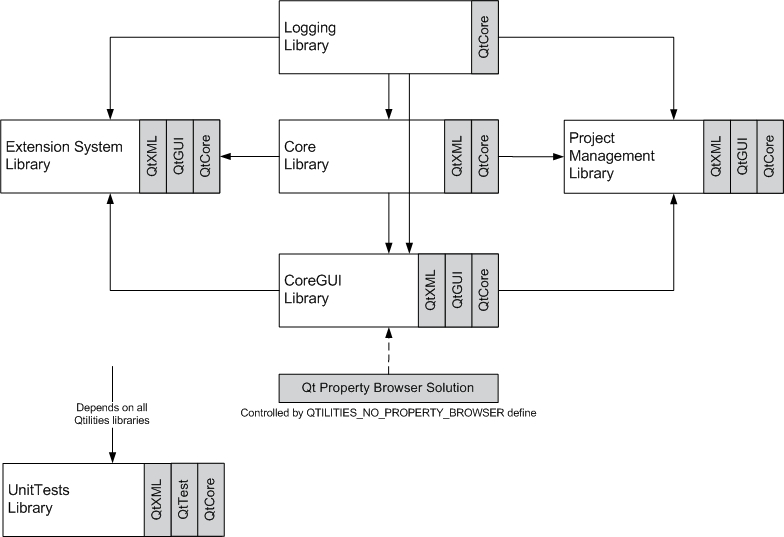
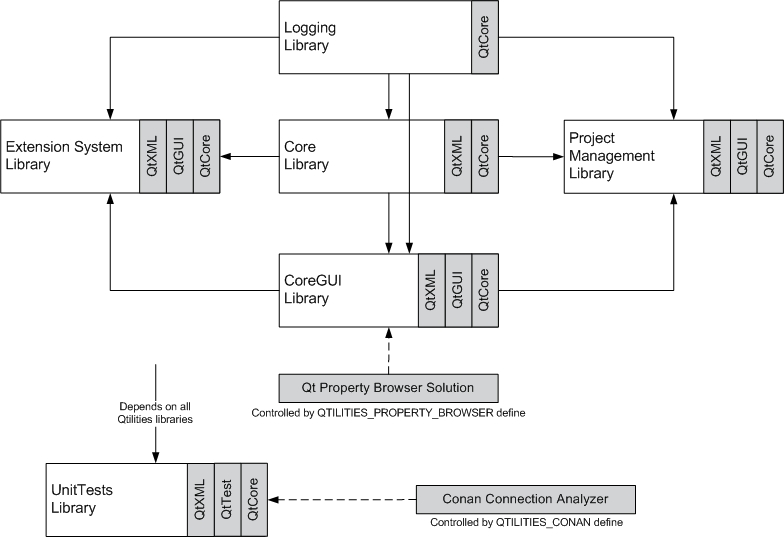
Finishing touches to documentation for v1.0

diff --git a/doc/sources/Getting_Started.html b/doc/sources/Getting_Started.html
@@ -14,11 +14,12 @@
 This page provides details of how to start using the %Qtilities libraries in your applications.
 
 Table of contents:
-- \ref getting_sources
+- \ref getting_started_getting_and_building
+    - \ref getting_started_getting_and_building_windows
+    - \ref getting_started_getting_and_building_linux
+    - \ref output_file_names
+    .
 - \ref tested_environments
-- \ref building_qtilities
-  - \ref output_file_names
-  .
 - \ref whats_next
 
 </td>
@@ -69,44 +70,197 @@ Table of contents:
 </tr>
 </table>
 
-\section getting_sources Getting the sources
+\section getting_started_getting_and_building Getting and Building Qtilities
 
 The project sources are hosted using the Git version control system on http://www.gitorious.org and can be accessed directly at http://gitorious.org/qtilities
 
-If you want to get the version controlled sources but you are not familiar with Git, see the <a href="http://www.kernel.org/pub/software/scm/git/docs/user-manual.html">Git User Manual</a> first. To clone the repository you can use the command below or see the \ref building_qtilities section for detailed instructions.
-
-\code
-git clone git://gitorious.org/qtilities/qtilities.git qtilities
-cd qtilities
-\endcode
-
-Note that it is not neccesarry to have a Gitorious account in order to clone the repository. It is however recommended to create an account and then clone the repository on the Gitorious website.
-
-The master branch host the current development snapshot and might not even build all time, thus it is recommended to use a stable branch for your development. You can also get an archive of any development branch by browsing the source tree on Gitorious and selecting the archive download link. All development happens in the \p master branch and stable versions have their own branches. Alternatively, you can download stable release archives from the <a href="http:\\code.google.com\p\qtilities\downloads\list">Qtilities download page</a>.
-
-\section tested_environments Tested environments
-
-At present the libraries have been tested on the following setups:
-- Qt 4.6.2 <-> Qt 4.7.2 / Windows XP / Mingw32
-- Qt 4.6.2 <-> Qt 4.7.2 / Windows 7 / Mingw32
-- Qt 4.6.2 <-> Qt 4.7.2 / Linux (Ubuntu 10.04 x64) / g++
-- Qt 4.6.2 <-> Qt 4.7.2 / Linux (Ubuntu 10.10 x32) / g++
-- Qt 4.6.2 <-> Qt 4.7.2 / Linux (Ubuntu 11.04 x32) / g++
-- Qt 4.6.2 / Windows 7 / MS Visual Studio 2008. Some testing was done but everything was not tested. Some problems related to template classes (factories etc.) were experienced after the build was done and the headers were included in a different project.
-
-Although %Qtilities have only been tested with Qt 4.6 and the Qt 4.7, it should work with Qt 4.x.
-
-\section building_qtilities Building Qtilities
-
-Detailed information on how to build information is provided in text files accompanying the source archive. Alternatively you can view the latest build instructions from the Gitorious repository:
+Detailed instructions on how to get started are shown below. Alternatively you can view the latest build instructions from the Gitorious repository:
 - <a href="http://gitorious.org/qtilities/qtilities/blobs/master/Building%20On%20Windows.txt">Building on Windows</a>
 - <a href="http://gitorious.org/qtilities/qtilities/blobs/master/Building%20On%20Linux.txt">Building on Linux</a>
+
+\note Is is not neccesarry to have a Gitorious account in order to clone the repository. It is however recommended to create an account and then clone the repository on the Gitorious website.
+\note The master branch host the current development snapshot and might not even build all time, thus it is recommended to use a stable branch for your development. You can also get an archive of any development branch by browsing the source tree on Gitorious and selecting the archive download link. All development happens in the \p master branch and stable versions have their own branches. Alternatively, you can download stable release archives from the <a href="http:\\code.google.com\p\qtilities\downloads\list">Qtilities download page</a>. The instructions below are included in the download archives.
+
+\subsection getting_started_getting_and_building_windows Windows Users
+\verbatim
+INSTALL (Windows)
+===============
+This guide is to build v1.0 of Qtilities on Windows (used Windows 7 & XP).
+
+To install Qtilities create a folder that will contain all the libraries used. This location will be reffered to as [YOUR_LIB_PATH]. It is assumed that the Qt SDK is insalled as well as git (see Required Software).
+
+Required Software:
+==================
+Qt SDK
+------
+1. Get the latest SDK from http://qt.nokia.com/downloads
+2. Install Qt SDK
+
+git (optional)
+-----------------
+git is a fast version management system for distributed development. This installation uses git to get the required source files.
+1. Download git from http://git-scm.com/download
+   Download the msysGit binary for windows
+2. Install git
+   Install the "Git Bash Only" option
+
+GIT Terminal
+============
+This is the steps needed to set up the git environment
+1. Open git bash
+2. In the terminal change directory to [YOUR_LIB_PATH]
+3. It is also possible to change the start folder in your git bash shortcut in order to open in the right location by default.
+
+Set up dependencies (Optional, disabled by default so you can skip to "Build Qtilities". See Dependencies.pri for more information)
+===================
+Qtiliites can be build against a few other libraries to extend its functionality. The following will list the dependencies as well as describe how to get them installed.
+
+Qt Property Browser
+-------------------
+1. Get the qt-solutions Qt Addons from http://qt.gitorious.org/qt-solutions.
+   Run the following command: git clone git://gitorious.org/qt-solutions/qt-solutions.git qt-solutions
+2. Build qtpropertybrowser, located inside the newly checked out qt-solutions folder.
+   Open the project file located inside the "buildlib" folder of the qtpropertybrowser.
+   It is advised to disable the "Shadow build" option in creator.
+   Lib files created should be in the "qtpropertybrowser/lib" folder.
+
+Connection analyzer for Qt
+--------------------------
+1. Download the conan for qt from http://sourceforge.net/projects/conanforqt/
+   To make things a bit easier later on place the conan code in "[YOUR_LIB_PATH]/conanforqt/Conan/".
+2. Build conan.
+   It is advised to disable the "Shadow build" option in creator. The lib files should be in the "Conan/lib" folder after a successfull build.
+   Build Debug and Release
+(note for Conan v1.0.2) When building against latest SDK it can complain that it does not find the qobject_p.h file. Locate the file in your Qt installtion and put absolute path in to get it to build.
+
+Build Qtilities
+===============
+1. Get the source code from gitorious/
+   Run the following command: git clone git://gitorious.org/qtilities/qtilities.git qtilities
+2. Open the Qtilities.pro file in QtCreator located in the src folder.
+3. Check your project paths:
+   Open the "Dependencies.pri" file located in the src folder and check that the paths are set up correctly.
+   QTILITIES_DEPENDENCIES should point to [YOUR_LIB_PATH]. Most probably "$$PWD/../../../".
+4. Set up Qtilities build options
+   1. If the dependencies was build correctly as described above, open the "Dependencies.pri" file located in the src folder.
+   2. Uncomment the following lines if they are not already commented out.
+      DEFINES += QTILITIES_PROPERTY_BROWSER
+      DEFINES += QTILITIES_CONAN
+5. Examples and Plugins
+   To build the Qtilities Examples and Plugins the following must be done
+   1. Using Qt Creator open the 2 pro files in the "src/Examples" and "src/Plugins" folders.
+   2. Go to the Project mode and click on the QtilitiesPlugins tab at the top.
+   3. Click on the Dependencies tab just underneath.
+   4. Make sure that "Qtilities" is checked in the Dependencies window.
+   5. Do the same for the Examples but both "Qtilities" and "QtilitiesPlugins" must be checked in the dependencies window.
+6. Qtilities should be able to build now
+
+LIBRARIES
+=========
+Qtilities will not be able to run if the following steps are not followed. The libraries created by the dependencies as well as Qtilities must be in your Windows PATH.
+1. Add the library locations to your WINDOWS PATH variable
+   The following must be added
+   [YOUR_LIB_PATH]/Qtilities/bin
+   [YOUR_LIB_PATH]/Qtilities/bin/plugins
+   [YOUR_LIB_PATH]/conanforqt/Conan/
+   [YOUR_LIB_PATH]/qt-solutions/qtpropertybrowser/lib
+3. Close Qt Creator and re-open it to make the changes to the PATH variable take effect.
+\endverbatim
+
+\subsection getting_started_getting_and_building_linux Linux Users
+\code
+INSTALL (Linux)
+===============
+This guide is to build v1.0 of Qtilities on Linux (used Ubuntu 10.10).
+
+To install Qtilities create a folder that will contain all the libraries used. Open a Terminal and navigate to that folder inside the Terminal. This location will be reffered to as [YOUR_LIB_PATH]. It is assumed that the Qt SDK is installed as well as git (see Required Software).
+
+Required Software:
+==================
+Qt SDK
+------
+1. Get the latest SDK from http://qt.nokia.com/downloads
+2. Install Qt SDK
+
+git (optional)
+-----------------
+git is a fast version management system for distributed development. This installation uses git to get the required source files.
+1. Download git from http://git-scm.com/download
+2. Install git
+3. Make sure git is in your path. run the following command in a terminal window to make sure it is set up correctly
+   "git --version"
+
+Set up dependencies (Optional, disabled by default so you can skip to "Build Qtilities". See Dependencies.pri for more information)
+===================
+Qtiliites can be build against a few other libraries to extend its functionality. The following will list the dependencies as well as describe how to get them installed.
+
+Qt Property Browser
+-------------------
+1. Get the qt-solutions Qt Addons from http://qt.gitorious.org/qt-solutions.
+   Run the following command: git clone git://gitorious.org/qt-solutions/qt-solutions.git qt-solutions
+2. Build qtpropertybrowser, located inside the newly checked out qt-solutions folder.
+   Lib files created should be in the "qtpropertybrowser/lib" folder.
+
+Connection Analyzer for Qt
+--------------------------
+1. Download the conan for qt from http://sourceforge.net/projects/conanforqt/
+   To make things a bit easier later on place the conan code in "[YOUR_LIB_PATH]/conanforqt/Conan/".
+2. Build Conan.
+   It is advised to disable the "Shadow build" option in creator. The lib files should be in the "Conan/lib" folder after a successfull build.
+   Build Debug and Release
+
+Build Qtilities
+===============
+1. Get the source code from gitorious
+   Run the following command: git clone git://gitorious.org/qtilities/qtilities.git qtilities
+2. Open the Qtilities.pro file in QtCreator located in the src folder.
+3. Check your project paths:
+   Open the "Dependencies.pri" file located in the src folder and check that the paths are set up correctly.
+   QTILITIES_DEPENDENCIES should point to [YOUR_LIB_PATH]. Most probably "$$PWD/../../../".
+4. Set up Qtilities build options
+   1. If the dependencies was build correctly as described above, open the "Dependencies.pri" file located in the src folder.
+   2. Uncomment the following lines if they are not already commented out.
+      DEFINES += QTILITIES_PROPERTY_BROWSER
+      DEFINES += QTILITIES_CONAN
+5. Examples and Plugins
+   To build the Qtilities Examples and Plugins the following must be done
+   1. Using Qt Creator open the 2 pro files in the "src/Examples" and "src/Plugins" folders.
+   2. Go to the Project mode and click on the QtilitiesPlugins tab at the top.
+   3. Click on the Dependencies tab just underneath.
+   4. Make sure that "Qtilities" is checked in the Dependencies window.
+   5. Do the same for the Examples but both "Qtilities" and "QtilitiesPlugins" must be checked in the dependencies window.
+6. Qtilities should be able to build now.
+
+LIBRARIES
+=========
+Qtilities will not be able to run if the following steps are not followed. The libraries created by the dependencies as well as Qtilities must be in your library path. The best way to do this is to
+1. Create new file in /etc/ld.so.conf.d/ for example Qtilities.conf. One can be made for all of the shared libraries grouped together or one can be made for each shared library.
+2. Edit the *.conf file and add all paths to shared libraries to the file, including the dependencies. The following should be added:
+   [YOUR_LIB_PATH]/Qtilities/bin
+   [YOUR_LIB_PATH]/Qtilities/bin/plugins
+   [YOUR_LIB_PATH]/conanforqt/Conan/
+   [YOUR_LIB_PATH]/qt-solutions/qtpropertybrowser/lib
+3. Update the libraries path
+   Run the following command: sudo ldconfig
+\endcode
 
 \subsection output_file_names Output file names
 
 All library file names, and the names of all example projects has the \p QTILITIES_FILE_VER variable appended to it. The format is as follows: \p -0.1.b1, meaning major version 0, minor version 1, beta version 1. Alpha versions will have an \p a character appended in the place of the \p b.
 
 When you build the libraries in debug mode, a small letter \p d character is appended to all library names. In release mode this character is removed.
+
+\section tested_environments Tested environments
+
+At present the libraries have been tested on the following setups:
+- Qt 4.6.2 <-> Qt 4.7.3 / Windows XP / Mingw32
+- Qt 4.6.2 <-> Qt 4.7.3 / Windows 7 / Mingw32
+- Qt 4.6.2 <-> Qt 4.7.3 / Linux (Ubuntu 10.04 x64) / g++
+- Qt 4.6.2 <-> Qt 4.7.3 / Linux (Ubuntu 10.10 x32) / g++
+- Qt 4.6.2 <-> Qt 4.7.3 / Linux (Ubuntu 11.04 x32) / g++
+- Qt 4.6.2 / Windows 7 / MS Visual Studio 2008. Some testing was done but everything was not tested. Some problems related to template classes (factories etc.) were experienced after the build was done and the headers were included in a different project.
+
+Although %Qtilities have only been tested with Qt 4.6 and the Qt 4.7, it should work with Qt 4.x.
 
 \section whats_next It Built, What Now?
 

diff --git a/doc/sources/Debugging_Qtilities_Applications.html b/doc/sources/Debugging_Qtilities_Applications.html
@@ -20,6 +20,9 @@ This page will give an overview of the debugging plugin and highlight some of it
 
 Table of contents:
 - \ref debugging_introduction
+    - \ref debugging_manual
+    - \ref debugging_automatic
+    .
 - \ref debugging_global_object_pool_view
     - \ref debugging_object_static_properties
     - \ref debugging_object_dynamic_properties
@@ -89,12 +92,28 @@ Table of contents:
 
 \section debugging_introduction Introduction
 
-The debugging plugin is part of the \p QtilitiesPlugins project and is called \p DebugPlugin. You can see the documentation
-for the plugin here: Qtilities::Plugins::Debug::DebugPlugin.
+The debugging plugin is part of the \p UnitTests module and can be added manually to your application, or if your application uses the %Qtilities extension system it can be added automatically as an application mode when you load \p DebugPlugin. You can find the documentation for the plugin here: Qtilities::Plugins::Debug::DebugPlugin.
 
-First of all, the easiest way to use the plugin is to make your application extendable (which is a very good thing)
-and then to add the debug plugin library to your application's plugin path. It will automatically be loaded as a mode
-in your application, thus you also need to use the Qtilities::CoreGui::QtilitiesMainWindow and set it up to use modes:
+\subsection debugging_manual Showing the debug widget manually
+
+To access the debug widget manually, do the following:
+
+\code
+// In your .pro file, add:
+QTILITIES += unit_tests
+
+// In your .cpp file, add:
+#include <QtilitiesUnitTests>
+using namespace QtilitiesUnitTests;
+
+// And then show the DebugWidget like this:
+DebugWidget* debug_widget = new DebugWidget;
+debug_widget->modeWidget()->show();
+\endcode
+
+\subsection debugging_automatic Showing the debug widget using the Debug Plugin
+
+Another way to use the debug widget is to make your application extendable and then to add the debug plugin library to your application's plugin path. It will automatically be loaded as a mode in your application, thus you also need to use the Qtilities::CoreGui::QtilitiesMainWindow and set it up to use modes:
 
 \code
 int main(int argc, char *argv[])
@@ -236,7 +255,7 @@ tags registered in each factory.
 
 \image html debugging_state_factories.jpg "Factories Overview"
 
-\subsection debugging_state_projects "Project Management"
+\subsection debugging_state_projects Project Management
 
 If you use projects in your application, the project management view will provide you with details about the
 Project Manager's current state. It is possible to open the current project or it's path and to get an overview
@@ -277,7 +296,6 @@ action to their action toolbars (when build in debug mode) as shown below:
 
 \image html debugging_observer_widget_action.jpg "Debug Selected Object Action"
 
-This action (blue bug) will add the selected object to your global object pool and then switch to the debugging plugin.
-The objects of the global object pool are the ones that you can debug as shown in the next section.
+This action (blue bug) will add the selected object to your global object pool and then switch to the debugging plugin (if using the approach described in \ref debugging_automatic, otherwise the object will just be added to the global object pool).
 
 */

diff --git a/doc/sources/Modules_Overview.html b/doc/sources/Modules_Overview.html
@@ -11,7 +11,7 @@
 <td style="width:80%; padding:0px 5px 0px 0px; vertical-align: text-top; text-align: left">
 <h1 style="margin:0px; padding:0px">Overview</h1>
 
-This page will provide an overview of the different modules which form part of %Qtilities and describe the dependencies of these modules on each other.
+This page provides an overview of the different modules which form part of %Qtilities and describes the dependencies of these modules on each other.
 
 Table of contents:
 - \ref section_modules
@@ -231,7 +231,7 @@ using namespace QtilitiesExtensionSystem;
 <a class="el" href="namespace_qtilities_1_1_extension_system.html">Unit Tests Module:</a>
 </td>
 <td style="vertical-align: text-top;width:80%">
-Provides classes which simplifies unit testing, as well as tests for numerous %Qtilities classes. The new \p QTILITIES_UNIT_TESTS define in \p Qtilities.pri allows you to build the UnitTests module with the %Qtilities test classes in it, thus without it you can use the library for your own custom tests.
+Provides classes which simplifies unit testing, a debug widget, and tests for numerous %Qtilities classes. The new \p QTILITIES_UNIT_TESTS define in \p Qtilities.pri allows you to build the UnitTests module with the %Qtilities test classes in it, thus without it you can use the library for your own custom tests.
 
 <table style="table-layout:auto;
         margin: auto;
@@ -266,6 +266,6 @@ The diagram below shows the dependencies of the different modules on each other.
 
 \image html dependency_graph.jpg "Library Dependency Graph"
 
-For more information about the Qt Property Browser Solution on which the CoreGui module depends, see the \ref page_getting_started page.
+For more information about the conditional dependencies, see \p Dependencies.pri.
  */
  

diff --git a/doc/sources/Examples_And_Plugins.html b/doc/sources/Examples_And_Plugins.html
@@ -199,6 +199,20 @@ The following modules are used:
 </td>
 </tr>
 
+<tr>
+<td style="vertical-align: text-top;width:250px">
+<b>The Basics Example:</b>
+</td>
+<td style="vertical-align: text-top;width:700px;text-align=justify">
+This example is discussed in the \ref page_the_basics article.
+
+The following modules are used:
+- <a class="el" href="namespace_qtilities_1_1_logging.html">Logging Module</a>
+- <a class="el" href="namespace_qtilities_1_1_core.html">Core Module</a>
+- <a class="el" href="namespace_qtilities_1_1_core_gui.html">CoreGui Module</a>
+</td>
+</tr>
+
 </table>
 
 \section plugins_overview Plugins Overview

diff --git a/doc/sources/The_Basics.html b/doc/sources/The_Basics.html
@@ -1,5 +1,5 @@
 /**
-\page page_the_basics The Basics: Your First %Qtilities Application
+\page page_the_basics The Basics: A Simple %Qtilities Application
 
 <table CELLPADDING=0 style="width:100%;
   table-layout:fixed;

diff --git a/src/Examples/ClipboardExample/main.cpp b/src/Examples/ClipboardExample/main.cpp
@@ -266,8 +266,8 @@ int main(int argc, char *argv[])
         LOG_WARNING(QObject::tr("Failed to load shortcut mapping from previous session. The default mapping scheme will be used. Path: ") + shortcut_mapping_file);
 
     // Create a debug widget
-    DebugWidget* debug_widget = new DebugWidget;
-    debug_widget->modeWidget()->show();
+    //DebugWidget* debug_widget = new DebugWidget;
+    //debug_widget->modeWidget()->show();
 
     int result = a.exec();
 
